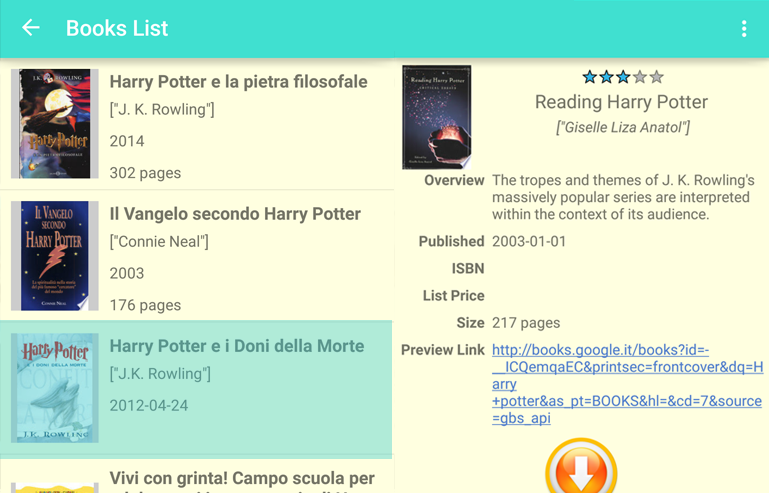
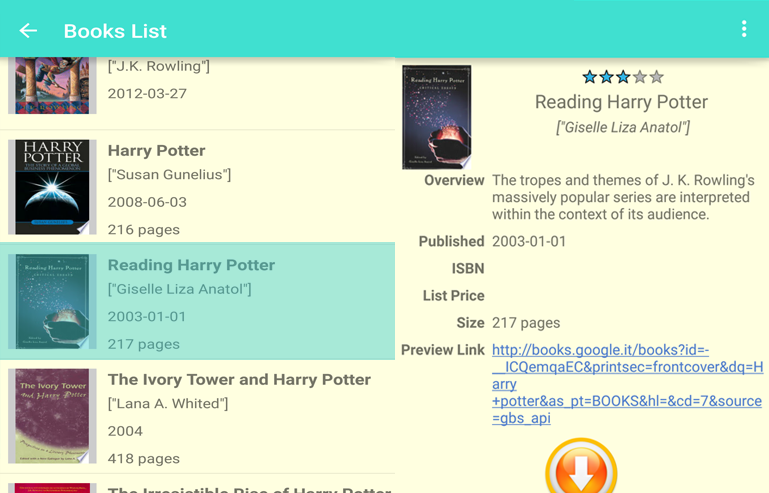
favorite list adjusted on tablet

Changed region(s): [[0.0, 0.0304, 0.5306, 1.0]]

diff --git a/app/src/main/java/app/com/example/rihanna/abookfinder/utils/FavoriteAdapter.java b/app/src/main/java/app/com/example/rihanna/abookfinder/utils/FavoriteAdapter.java
@@ -15,16 +15,11 @@ import app.com.example.rihanna.abookfinder.R;
  * Created by Rihanna on 20/04/2015.
  */
 public class FavoriteAdapter extends CursorAdapter {
+    private LayoutInflater mInflater;
+    private int mPositionSelected;
+    private Context context;
 
-    private static final int VIEW_TYPE_COUNT = 2;
-    private static final int VIEW_TYPE_TODAY = 0;
-    private static final int VIEW_TYPE_FUTURE_DAY = 1;
-    // Flag to determine if we want to use a separate view for "today".
-    private boolean mUseTodayLayout = true;
 
-    /**
-     * Cache of the children views for a forecast list item.
-     */
     public static class ViewHolder {
         public final ImageView bookCover;
         public final TextView title;
@@ -43,6 +38,12 @@ public class FavoriteAdapter extends CursorAdapter {
 
     public FavoriteAdapter(Context context, Cursor c, int flags) {
         super(context, c, flags);
+        mContext=context;
+        mInflater=LayoutInflater.from(context);
+    }
+
+    public void setPositionSelected(int positionSelected) {
+        mPositionSelected = positionSelected;
     }
 
     @Override
@@ -72,17 +73,5 @@ public class FavoriteAdapter extends CursorAdapter {
         // viewHolder.pages.setText(publisher);
     }
 
-    //  public void setUseTodayLayout(boolean useTodayLayout) {
-    //       mUseTodayLayout = useTodayLayout;
-    //  }
 
-  /*  @Override
-    public int getItemViewType(int position) {
-        return (position == 0 && mUseTodayLayout) ? VIEW_TYPE_TODAY : VIEW_TYPE_FUTURE_DAY;
-    }
-
-    @Override
-    public int getViewTypeCount() {
-        return VIEW_TYPE_COUNT;
-    }*/
 }

diff --git a/app/src/main/java/app/com/example/rihanna/abookfinder/FavoriteDetailFragment.java b/app/src/main/java/app/com/example/rihanna/abookfinder/FavoriteDetailFragment.java
@@ -52,8 +52,6 @@ public class FavoriteDetailFragment extends Fragment
             BookContract.BookEntry.COLUMN_BIGIM
     };
 
-    // These indices are tied to DETAIL_COLUMNS.  If DETAIL_COLUMNS changes, these
-    // must change.
     public static final int COL_COLUMN_KEY = 0;
     public static final int COL_COLUMN_IDBOOK=1;
     public static final int COL_COLUMN_TITLE=2;
@@ -130,11 +128,11 @@ public class FavoriteDetailFragment extends Fragment
         MenuItem menuItem = menu.findItem(R.id.action_share);
         mShareActionProvider = (ShareActionProvider) MenuItemCompat.getActionProvider(menuItem);
         if (bookTitle != null) {
-            mShareActionProvider.setShareIntent(createShareForecastIntent());
+            mShareActionProvider.setShareIntent(createShareIntent());
         }
     }
 
-    private Intent createShareForecastIntent() {
+    private Intent createShareIntent() {
         Intent shareIntent = new Intent(Intent.ACTION_SEND);
         shareIntent.addFlags(Intent.FLAG_ACTIVITY_CLEAR_WHEN_TASK_RESET);
         shareIntent.setType("text/plain");
@@ -187,7 +185,7 @@ public class FavoriteDetailFragment extends Fragment
             price.setText(data.getString(COL_COLUMN_PRICE));
             size.setText(data.getString(COL_COLUMN_PAGES));
             if (mShareActionProvider != null) {
-                mShareActionProvider.setShareIntent(createShareForecastIntent());
+                mShareActionProvider.setShareIntent(createShareIntent());
             }
         }
     }

diff --git a/app/src/main/java/app/com/example/rihanna/abookfinder/Favorites.java b/app/src/main/java/app/com/example/rihanna/abookfinder/Favorites.java
@@ -13,23 +13,27 @@ import app.com.example.rihanna.abookfinder.db.*;
 public class Favorites extends ActionBarActivity implements FavoriteListFragment.Callback {
     private final String LOG_TAG = Favorites.class.getSimpleName();
     private static final String DETAILFRAGMENT_TAG = "DFTAG";
-    private boolean mTwoPane;
+    private static boolean mTwoPane;
     @Override
     protected void onCreate(Bundle savedInstanceState) {
         super.onCreate(savedInstanceState);
         setContentView(R.layout.activity_favorite_list);
 
-        if (findViewById(R.id.detail_container) != null) {
+        if (findViewById(R.id.detailed_book) != null) {
             mTwoPane = true;
             if (savedInstanceState == null) {
                 getSupportFragmentManager().beginTransaction()
-                        .replace(R.id.detail_container, new FavoriteDetailFragment(), DETAILFRAGMENT_TAG)
+                        .replace(R.id.detailed_book, new FavoriteDetailFragment(), DETAILFRAGMENT_TAG)
                         .commit();
             }
         } else {
             mTwoPane = false;
             getSupportActionBar().setElevation(0f);
         }
+        FavoriteListFragment frag=((FavoriteListFragment)getSupportFragmentManager()
+                        .findFragmentById(R.id.fragment_favorites));
+
+
     }
     @Override
     public boolean onCreateOptionsMenu(Menu menu) {

diff --git a/app/src/main/java/app/com/example/rihanna/abookfinder/BookSearchView.java b/app/src/main/java/app/com/example/rihanna/abookfinder/BookSearchView.java
@@ -12,7 +12,7 @@ import android.widget.Toast;
 public class BookSearchView extends ActionBarActivity
              {
     private boolean mTwoPane;
-    private static final String DETAILFRAGMENT_TAG = "DFTAG";
+    private static final String DETAILSEARCH_TAG = "SEARCHTAG";
     String book;
     @Override
     protected void onCreate(Bundle savedInstanceState) {
@@ -31,10 +31,9 @@ public class BookSearchView extends ActionBarActivity
                 BookDetailFragment fragment2=new  BookDetailFragment();
                 Bundle bundle2=new Bundle();
                 bundle2.putInt("idBook",0);
-              //  bundle2.putBoolean("mTwoPane",true);
                 fragment2.setArguments(bundle2);
                 getSupportFragmentManager().beginTransaction()
-                        .replace(R.id.detail_container, fragment2, DETAILFRAGMENT_TAG)
+                        .replace(R.id.detail_container, fragment2, DETAILSEARCH_TAG)
                         .commit();
         } else {
                 mTwoPane = false;
@@ -75,7 +74,7 @@ public class BookSearchView extends ActionBarActivity
         return super.onOptionsItemSelected(item);
     }
 /* Case tablet methods to call*/
-     public boolean ismTwoPane() {
+     public  boolean ismTwoPane() {
          return mTwoPane;
      }
      public void setmTwoPane(boolean mTwoPane) {

diff --git a/app/src/main/java/app/com/example/rihanna/abookfinder/FavoriteListFragment.java b/app/src/main/java/app/com/example/rihanna/abookfinder/FavoriteListFragment.java
@@ -29,7 +29,6 @@ public class FavoriteListFragment extends Fragment implements LoaderManager.Load
     private FavoriteAdapter mAdapter;
     private ListView mListView;
     private int mPosition = ListView.INVALID_POSITION;
-
     private static final String SELECTED_KEY = "selected_position";
     private static final int FAVORITE_LOADER = 0;
 
@@ -90,7 +89,7 @@ public class FavoriteListFragment extends Fragment implements LoaderManager.Load
         mAdapter = new FavoriteAdapter(getActivity(), null, 0);
 
         View rootView = inflater.inflate(R.layout.fragment_favorite_list, container, false);
-        mListView = (ListView) rootView.findViewById(R.id.listview_forecast);
+        mListView = (ListView) rootView.findViewById(R.id.listview);
         mListView.setAdapter(mAdapter);
         mListView.setOnItemClickListener(new AdapterView.OnItemClickListener() {
 

diff --git a/app/src/main/java/app/com/example/rihanna/abookfinder/BookDetailFragment.java b/app/src/main/java/app/com/example/rihanna/abookfinder/BookDetailFragment.java
@@ -38,7 +38,6 @@ import app.com.example.rihanna.abookfinder.utils.*;
 public class BookDetailFragment extends Fragment implements View.OnClickListener
 {
     int id;
-    ShareActionProvider actionProvider;
     Book book;
     ImageButton button;
     ImageView image;
@@ -192,10 +191,6 @@ public class BookDetailFragment extends Fragment implements View.OnClickListener
         int id = item.getItemId();
         if (id == R.id.action_settings) {
             startActivity(new Intent(getActivity(), Favorites.class));
-            return true;
-        }
-        if (id==R.id.action_share) {
-          ///////////////////////////////////////////////////////////
             return true;
         }
         return super.onOptionsItemSelected(item);

diff --git a/app/src/main/java/app/com/example/rihanna/abookfinder/FavoriteDetail.java b/app/src/main/java/app/com/example/rihanna/abookfinder/FavoriteDetail.java
@@ -33,7 +33,6 @@ public class FavoriteDetail extends ActionBarActivity {
     }
     @Override
     public boolean onCreateOptionsMenu(Menu menu) {
-        // Inflate the menu; this adds items to the action bar if it is present.
         getMenuInflater().inflate(R.menu.detail, menu);
         return true;
     }
